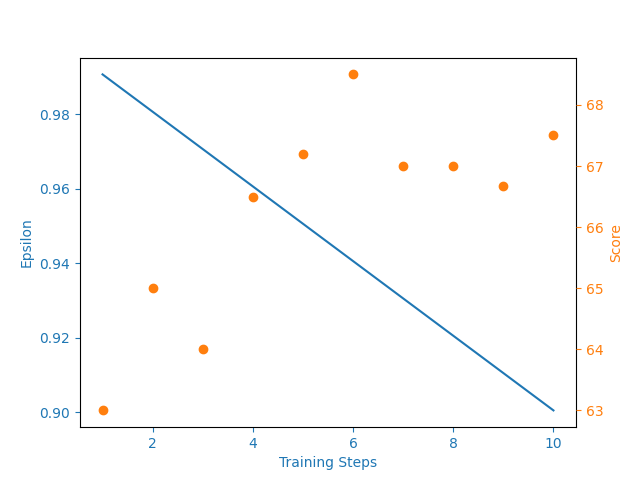
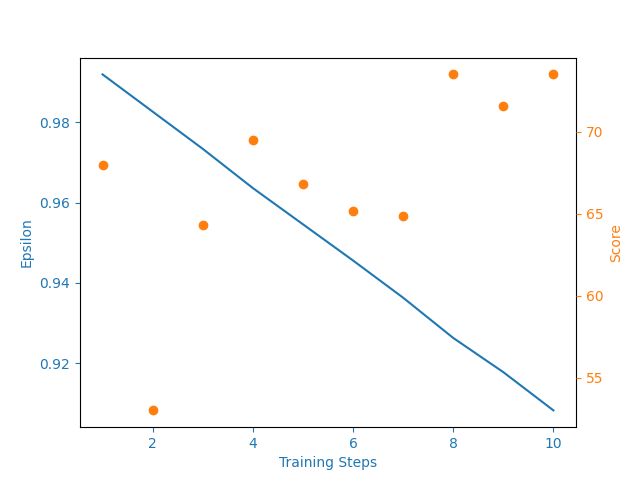
multiagent working

diff --git a/commons-game-multi-agent.py b/commons-game-multi-agent.py
@@ -1,4 +1,6 @@
 import logging
+import time
+
 from agent import Agent
 import gym
 import numpy as np
@@ -7,69 +9,103 @@ from CommonsGame.constants import *
 import threading
 
 
+def handle_agent_choose_action(agent, observation):
+    if type(observation) == type(None):
+        action = -1
+    else:
+        action = agent.choose_action(observation)
+    return action
+
+
+def handle_agent_learn(agent, observation, observation_, action, reward, done):
+    if type(observation_) == type(None):
+        return
+    if type(observation) == type(None):
+        observation = np.copy(agent.state_memory[-1])
+
+    agent.store_transition(observation, action, reward, observation_, done)
+    agent.learn()
+
+def do_plots_and_gifs(episode, frames, obs, scores, eps_history):
+    # PLOT LEARNING CURVE
+    x = [j + 1 for j in range(episode)]
+    path = "./Results/multi-agent/learning-curves/"
+    filename = f'learning-curve-episode-{episode}.png'
+    plot_learning_curve(x, scores, eps_history, path + filename)
+
+    path = "./Results/multi-agent/gifs/"
+    filename = f"gif-episode-{episode}.gif"
+    path_obs = "./Results/multi-agent/gifs/"
+    filename_obs = f"gif-agent0-episode-{episode}.gif"
+
+    t2 = threading.Thread(target=save_observations_as_gif, name="Saving gif", args=(obs, path_obs, filename_obs))
+    t2.daemon = True
+
+    t = threading.Thread(target=save_frames_as_gif_big_map, name="Saving gif", args=(frames, t2, path, filename))
+    t.daemon = True
+    t.start()
+
+    print("Started gif saving threads")
+
+def run_episode(episode, env, agents, numAgents, save_episodes_as_gifs, scores, eps_history):
+    frames = []
+    obs = []
+    score = 0
+    done = [False]
+    observations, _ = env.reset()
+    while not done[0]:
+        # Save map render to do gif
+        if episode in save_episodes_as_gifs:
+            frames.append(env.render(mode="rgb_array"))
+
+        # Each agent chooses its action.
+        actions = []
+        for ag in range(numAgents):
+            action = handle_agent_choose_action(agents[ag], observations[ag])
+            actions.append(action)
+
+        # Actions are played, rewards are received.
+        observations_, rewards, done, info = env.step(actions)
+        score += rewards[0]
+
+        # Save observation of agent 0 to do gif
+        if episode in save_episodes_as_gifs:
+            obs.append(observations[0])
+
+        # Learn from current action-reward combo
+        for ag in range(numAgents):
+            handle_agent_learn(agents[ag], observations[ag], observations_[ag], actions[ag], rewards[ag], done[ag])
+
+        # Current observations will be next old observations
+        observations = observations_
+
+    # Save scores
+    scores.append(score)
+    eps_history.append(agents[0].epsilon)
+
+    avg_score = np.mean(scores[-100:])
+
+    print('Episode {} Average Score: {:.2f} Epsilon {:.2f}'.format(episode, avg_score, agents[0].epsilon))
+    if episode in save_episodes_as_gifs:
+        do_plots_and_gifs(episode, frames, obs, scores, eps_history)
+
 def main():
     # Hyperparameters
     n_episodes = 10050
     save_episodes_as_gifs = [10, 500, 5000, 10000]
-    numAgents = 1
+    numAgents = 10
     visualRadius = 5
-
 
     input_dims = [visualRadius*2+1, visualRadius*2+1, 3]
     env = gym.make('CommonsGame:CommonsGame-v0', numAgents=numAgents, visualRadius=visualRadius, mapSketch=bigMap)#, mapSketch=smallMap)
     gym.logger.setLevel(logging.CRITICAL)
-    agent = Agent(gamma=0.99, epsilon=1.0, batch_size=64, n_actions=8,
+    agents = [Agent(gamma=0.99, epsilon=1.0, batch_size=64, n_actions=8,
                   eps_end=0.01, input_dims=input_dims, lr=0.003)
+              for _ in range(numAgents)]
     scores, eps_history = [], []
 
-    for episode in range(1,n_episodes+1):
-        frames = []
-        obs = []
-        score = 0
-        done = [False]
-        observation, _ = env.reset()
-
-        while not done[0]:
-            if episode in save_episodes_as_gifs:
-
-                frames.append(env.render(mode="rgb_array"))
-
-            action = agent.choose_action(observation[0])
-            observation_, reward, done, info = env.step([action])
-            score += reward[0]
-            agent.store_transition(observation[0], action, reward[0], observation_[0], done[0])
-
-            if episode in save_episodes_as_gifs:
-                obs.append(observation[0])
-
-            agent.learn()
-            observation = observation_
-        scores.append(score)
-        eps_history.append(agent.epsilon)
-
-        avg_score = np.mean(scores[-100:])
-
-        print('Episode {} Average Score: {:.2f} Epsilon {:.2f}'.format(episode, avg_score, agent.epsilon))
-        if episode in save_episodes_as_gifs:
-            # PLOT LEARNING CURVE
-            x = [j + 1 for j in range(episode)]
-            path = "./Results/multi-agent/learning-curves/"
-            filename = f'learning-curve-episode-{episode}.png'
-            plot_learning_curve(x, scores, eps_history, path + filename)
-
-            path = "./Results/multi-agent/gifs/"
-            filename = f"gif-episode-{episode}.gif"
-            path_obs = "./Results/multi-agent/gifs/"
-            filename_obs = f"gif-agent0-episode-{episode}.gif"
-
-            t2 = threading.Thread(target=save_observations_as_gif, name="Saving gif", args=(obs, path_obs, filename_obs))
-            t2.daemon = True
-
-            t = threading.Thread(target=save_frames_as_gif_big_map, name="Saving gif", args=(frames, t2, path, filename))
-            t.daemon = True
-            t.start()
-
-            print("Started gif saving threads")
+    for episode in range(1, n_episodes + 1):
+        run_episode(episode, env, agents, numAgents, save_episodes_as_gifs, scores, eps_history)
 
 
 

diff --git a/agent.py b/agent.py
@@ -14,8 +14,9 @@ from utils import plot_learning_curve
 class DeepQNetwork(nn.Module):
     def __init__(self, lr, input_dims, fc1_dims, fc2_dims, n_actions, batch_size, out_channels=6, kernel_size=3, stride=1):
         super(DeepQNetwork, self).__init__()
-        cpus=os.cpu_count()
+        cpus = int(os.cpu_count() / 2)
         T.set_num_threads(cpus)
+
         self.input_dims = input_dims
         self.fc1_dims = fc1_dims
         self.fc2_dims = fc2_dims
@@ -122,46 +123,3 @@ class Agent:
         self.Q_eval.optimizer.step()
 
         self.epsilon = self.epsilon - self.eps_dec if self.epsilon > self.eps_min else self.eps_min
-
-
-
-def test_agent():
-    env = gym.make('LunarLander-v2',
-                   enable_wind=False,
-                   wind_power=0.0,
-                   turbulence_power=0.0)
-
-    agent = Agent(gamma=0.99, epsilon=1.0, batch_size=64, n_actions=4,
-                  eps_end=0.01, input_dims=[8], lr=0.003)
-    scores, eps_history = [], []
-    n_games = 500
-
-    for i in range(n_games):
-        score = 0
-        done = False
-        observation, _ = env.reset()
-
-        while not done:
-            action = agent.choose_action(observation)
-            observation_, reward, done, truncated,  info = env.step(action)
-            score += reward
-            agent.store_transition(observation, action, reward, observation_, done)
-
-            agent.learn()
-            observation = observation_
-        scores.append(score)
-        eps_history.append(agent.epsilon)
-
-        avg_score = np.mean(scores[-100:])
-
-        print('Episode {} Average Score: {:.2f} Epsilon {:.2f}'.format(i, avg_score, agent.epsilon))
-
-    x = [i+1 for i in range(n_games)]
-    filename = 'lunar_lander_test.png'
-    plot_learning_curve(x, scores, eps_history, filename)
-
-
-
-if __name__ == '__main__':
-    test_agent()
-

diff --git a/commons-game-single-agent.py b/commons-game-single-agent.py
@@ -52,13 +52,13 @@ def main():
         if episode in save_episodes_as_gifs:
             # PLOT LEARNING CURVE
             x = [j + 1 for j in range(episode)]
-            path = "./Results/multi-agent/learning-curves/"
+            path = "./Results/single-agent/learning-curves/"
             filename = f'learning-curve-episode-{episode}.png'
             plot_learning_curve(x, scores, eps_history, path + filename)
 
-            path = "./Results/multi-agent/gifs/"
+            path = "./Results/single-agent/gifs/"
             filename = f"gif-episode-{episode}.gif"
-            path_obs = "./Results/multi-agent/gifs/"
+            path_obs = "./Results/single-agent/gifs/"
             filename_obs = f"gif-agent0-episode-{episode}.gif"
 
             t2 = threading.Thread(target=save_observations_as_gif, name="Saving gif",

diff --git a/utils.py b/utils.py
@@ -6,6 +6,7 @@ import time
 
 def plot_learning_curve(x, scores, epsilons, filename):
     fig = plt.figure(1)
+    fig.clf()
     ax = fig.add_subplot(111, label="1")
     ax2 = fig.add_subplot(111, label="2", frame_on=False)
 
@@ -76,6 +77,8 @@ def save_observations_as_gif(frames, path='./', filename='gym_animation.gif'):
     plt.axis('off')
 
     def animate(i):
+        if type(frames[i]) == type(None):
+            return
         patch.set_data(frames[i])
         fig.suptitle(f'{i}', fontsize=3, fontweight='bold')
 

diff --git a/setup.py b/setup.py
@@ -2,5 +2,5 @@ from setuptools import setup
 
 setup(name='gym-commons-game',
       version='0.0.1',
-      install_requires=['gym', 'pycolab', 'matplotlib', 'numpy', 'scipy']
+      install_requires=['gym', 'pycolab', 'matplotlib', 'numpy', 'scipy', 'torch', 'torchvision', 'torchaudio']
 )
